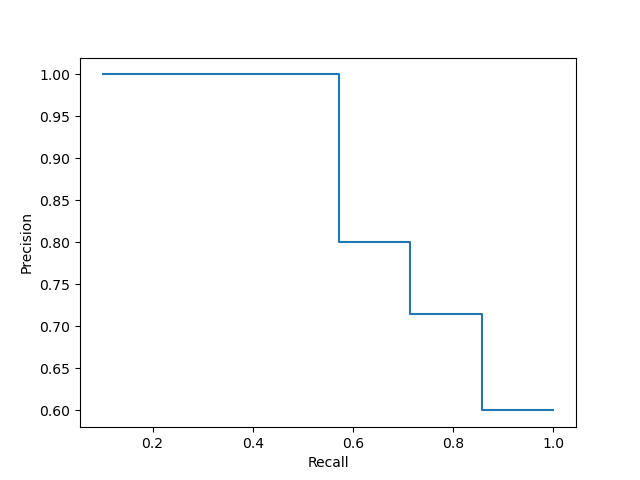
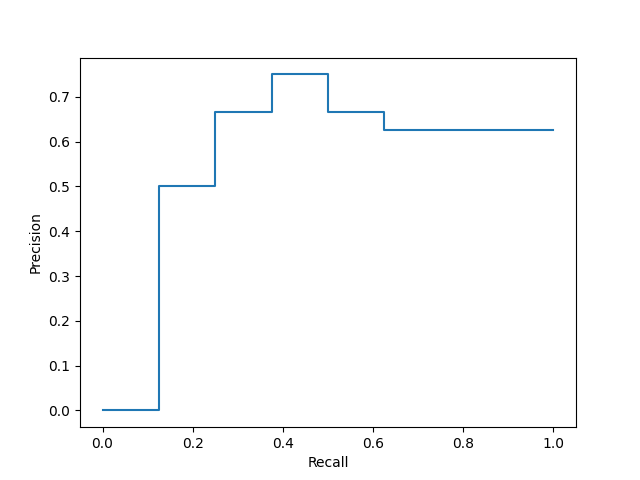
Added a new core and schema called semantic_abstracts

diff --git a/solr/prdisplay.py b/solr/prdisplay.py
@@ -7,20 +7,20 @@ import requests
 import pandas as pd
 
 QRELS_FILE = 'solr/qrels/disease'
-QUERY_URL = "http://localhost:8983/solr/abstracts/select?fl=abstract_id&indent=true&q.op=OR&q=content%3A%27disease%27~2&useParams="
+QUERY_URL = 'http://localhost:8983/solr/abstracts/select?indent=true&q.op=OR&q=content%3A%20disease&useParams='
 
 # Read qrels to extract relevant documents
 relevant = list(map(lambda el: el.strip(), open(QRELS_FILE).readlines()))
 relevant = list(map(lambda x: int(x), relevant))
-print(f"relevant = {relevant}")
+
 # Get query results from Solr instance
 results = requests.get(QUERY_URL).json()['response']['docs']
-print(f"results = {results}")
 
 # METRICS TABLE
 # Define custom decorator to automatically calculate metric based on key
 metrics = {}
-metric = lambda f: metrics.setdefault(f.__name__, f)
+def metric(f): return metrics.setdefault(f.__name__, f)
+
 
 field_var = 'abstract_id'
 
@@ -41,29 +41,41 @@ def ap(results, relevant):
 
     return sum(precision_values)/len(precision_values)
 
+
 @metric
-def p10(results, relevant, n=10):
+def p10(results, relevant):
     """Precision at N"""
+    n = len(results)
     return len([doc for doc in results[:n] if doc[field_var] in relevant])/n
+
+
+@metric
+def map(results, relevant):
+    """Mean Average Precision"""
+    ap_values = [ap(results[:k], relevant) for k in range(1, len(results) + 1)]
+    return np.mean(ap_values)
+
 
 def calculate_metric(key, results, relevant):
     return metrics[key](results, relevant)
 
+
 # Define metrics to be calculated
 evaluation_metrics = {
     'ap': 'Average Precision',
-    'p10': 'Precision at 10 (P@10)'
+    'p10': 'Precision at 10 (P@10)',
+    'map': 'Mean Average Precision (MAP)'
 }
 
 # Calculate all metrics and export results as LaTeX table
-df = pd.DataFrame([['Metric','Value']] +
-    [
-        [evaluation_metrics[m], calculate_metric(m, results, relevant)]
-        for m in evaluation_metrics
-    ]
+df = pd.DataFrame([['Metric', 'Value']] +
+                  [
+    [evaluation_metrics[m], calculate_metric(m, results, relevant)]
+    for m in evaluation_metrics
+]
 )
 
-with open('results.tex','w') as tf:
+with open('results.tex', 'w') as tf:
     tf.write(df.to_latex())
 
 
@@ -71,10 +83,10 @@ with open('results.tex','w') as tf:
 # Calculate precision and recall values as we move down the ranked list
 precision_values = [
     len([
-        doc 
+        doc
         for doc in results[:idx]
         if doc[field_var] in relevant
-    ]) / idx 
+    ]) / idx
     for idx, _ in enumerate(results, start=1)
 ]
 
@@ -86,10 +98,12 @@ recall_values = [
     for idx, _ in enumerate(results, start=1)
 ]
 
-precision_recall_match = {k: v for k,v in zip(recall_values, precision_values)}
+precision_recall_match = {k: v for k,
+                          v in zip(recall_values, precision_values)}
 
 # Extend recall_values to include traditional steps for a better curve (0.1, 0.2 ...)
-recall_values.extend([step for step in np.arange(0.1, 1.1, 0.1) if step not in recall_values])
+recall_values.extend([step for step in np.arange(
+    0.1, 1.1, 0.1) if step not in recall_values])
 recall_values = sorted(set(recall_values))
 
 # Extend matching dict to include these new intermediate steps
@@ -100,6 +114,7 @@ for idx, step in enumerate(recall_values):
         else:
             precision_recall_match[step] = precision_recall_match[recall_values[idx+1]]
 
-disp = PrecisionRecallDisplay([precision_recall_match.get(r) for r in recall_values], recall_values)
+disp = PrecisionRecallDisplay(
+    [precision_recall_match.get(r) for r in recall_values], recall_values)
 disp.plot()
 plt.savefig('precision_recall.png')

diff --git a/solr/query_embedding.py b/solr/query_embedding.py
@@ -1,0 +1,66 @@
+import requests
+
+from sentence_transformers import SentenceTransformer
+
+
+def text_to_embedding(text):
+    model = SentenceTransformer('all-MiniLM-L6-v2')
+
+    embedding = model.encode(text, convert_to_tensor=False).tolist()
+
+    return '[' + ','.join(map(str, embedding)) + ']'
+
+
+def solr_knn_query(endpoint, collection, embedding):
+    url = f'{endpoint}/{collection}/select'
+
+    data = {
+        'q': f'{{!knn f=vector topK=10}}{embedding}',
+        'fl': 'abstract_id,content,species,score',
+        'rows': 10,
+        'wt': 'json'
+    }
+
+    headers = {
+        'Content-Type': 'application/x-www-form-urlencoded'
+    }
+
+    response = requests.post(url, data=data, headers=headers)
+    response.raise_for_status()
+
+    return response.json()
+
+
+def display_results(results):
+    docs = results.get('response', {}).get('docs', [])
+
+    if not docs:
+        print('No results found.')
+
+        return
+
+    for doc in docs:
+        print(
+            f'* {doc.get("abstract_id")} {doc.get("content")} {doc.get("species")} [score: {doc.get("score"):.2f}]')
+
+
+def main():
+    solr_endpoint = 'http://localhost:8983/solr'
+
+    collection = 'semantic_abstracts'
+
+    query_text = input('Enter your query: ')
+
+    embedding = text_to_embedding(query_text)
+
+    try:
+        results = solr_knn_query(solr_endpoint, collection, embedding)
+
+        display_results(results)
+
+    except requests.HTTPError as e:
+        print(f'Error {e.response.status_code}: {e.response.text}')
+
+
+if __name__ == '__main__':
+    main()

diff --git a/solr/get_embeddings.py b/solr/get_embeddings.py
@@ -1,0 +1,25 @@
+import sys
+import json
+
+from sentence_transformers import SentenceTransformer
+
+model = SentenceTransformer('all-MiniLM-L6-v2')
+
+
+def get_embedding(text):
+    return model.encode(text, convert_to_tensor=False).tolist()
+
+
+
+if __name__ == '__main__':
+    data = json.load(sys.stdin)
+
+    for document in data:
+        abstract_id = document.get("abstract_id", "")
+        content = document.get("content", "")
+        species = document.get("species", "")
+
+        combined_text = str(abstract_id) + " " + content + " " + species
+        document["vector"] = get_embedding(combined_text)
+    
+    json.dump(data, sys.stdout, indent=4, ensure_ascii=False)

diff --git a/results.tex b/results.tex
@@ -1,9 +1,10 @@
 \begin{tabular}{lll}
 \toprule
-{} &                       0 &         1 \\
+ & 0 & 1 \\
 \midrule
-0 &                  Metric &     Value \\
-1 &       Average Precision &  0.930556 \\
-2 &  Precision at 10 (P@10) &       0.6 \\
+0 & Metric & Value \\
+1 & Average Precision & 0.686190 \\
+2 & Precision at 10 (P@10) & 0.625000 \\
+3 & Mean Average Precision (MAP) & 0.556617 \\
 \bottomrule
 \end{tabular}
